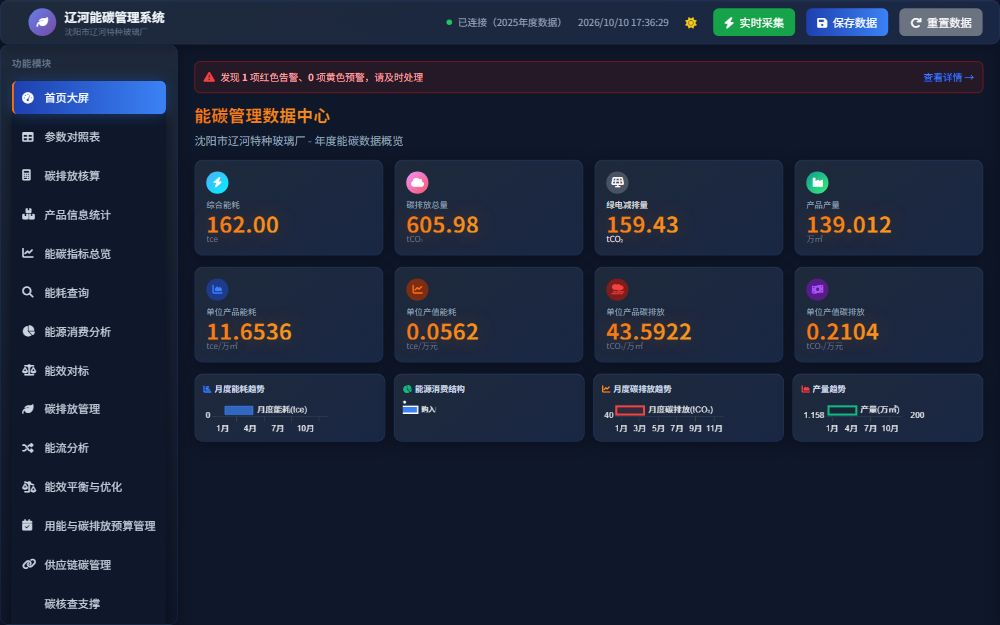
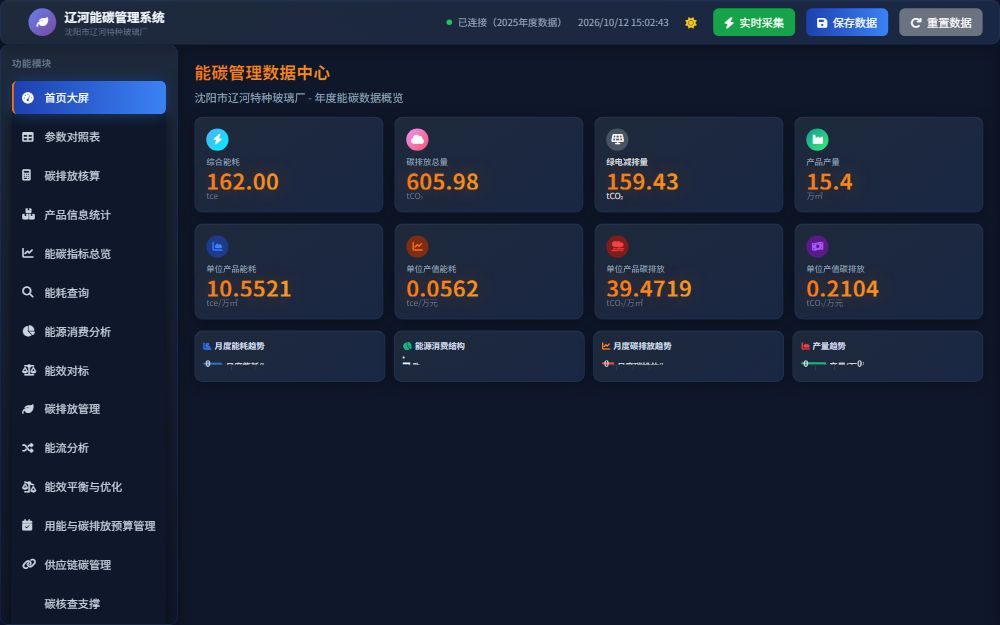
Add files via upload

diff --git a/index.html b/index.html
@@ -3182,19 +3182,8 @@ try { updateCharts(); } catch(e) { console.warn('图表更新失败:', e); }
             // 11.0：更新首页预警条
             const bar = document.getElementById('dashboardAlertBar');
             const txt = document.getElementById('dashboardAlertText');
-            if (bar && txt) {
-                if (red > 0) {
-                    bar.classList.remove('hidden');
-                    bar.className = 'mb-4 p-3 rounded-lg bg-red-50 dark:bg-red-900/20 border border-red-200 dark:border-red-800';
-                    txt.innerHTML = '发现 <strong>' + red + '</strong> 项红色告警、<strong>' + yellow + '</strong> 项黄色预警，请及时处理';
-                } else if (yellow > 0) {
-                    bar.classList.remove('hidden');
-                    bar.className = 'mb-4 p-3 rounded-lg bg-yellow-50 dark:bg-yellow-900/20 border border-yellow-200 dark:border-yellow-800';
-                    txt.innerHTML = '发现 <strong>' + yellow + '</strong> 项黄色预警，请关注';
-                } else {
-                    bar.classList.add('hidden');
-                }
-            }
+            // 申报展示模式：首页告警横幅默认隐藏（预警模块明细与统计仍完整保留）
+            if (bar) bar.classList.add('hidden');
         }
 
         // ======== 11.0新增：策略推荐 ========

diff --git a/sw.js b/sw.js
@@ -1,5 +1,5 @@
 /* 辽河能碳管理系统 - Service Worker v3.0（2025年度数据修正版） */
-const CACHE_NAME = 'liaohe-energy-carbon-v4';
+const CACHE_NAME = 'liaohe-energy-carbon-v5';
 
 // 预缓存核心资源（相对路径，与发布产物根目录一致）
 const PRECACHE_URLS = [
